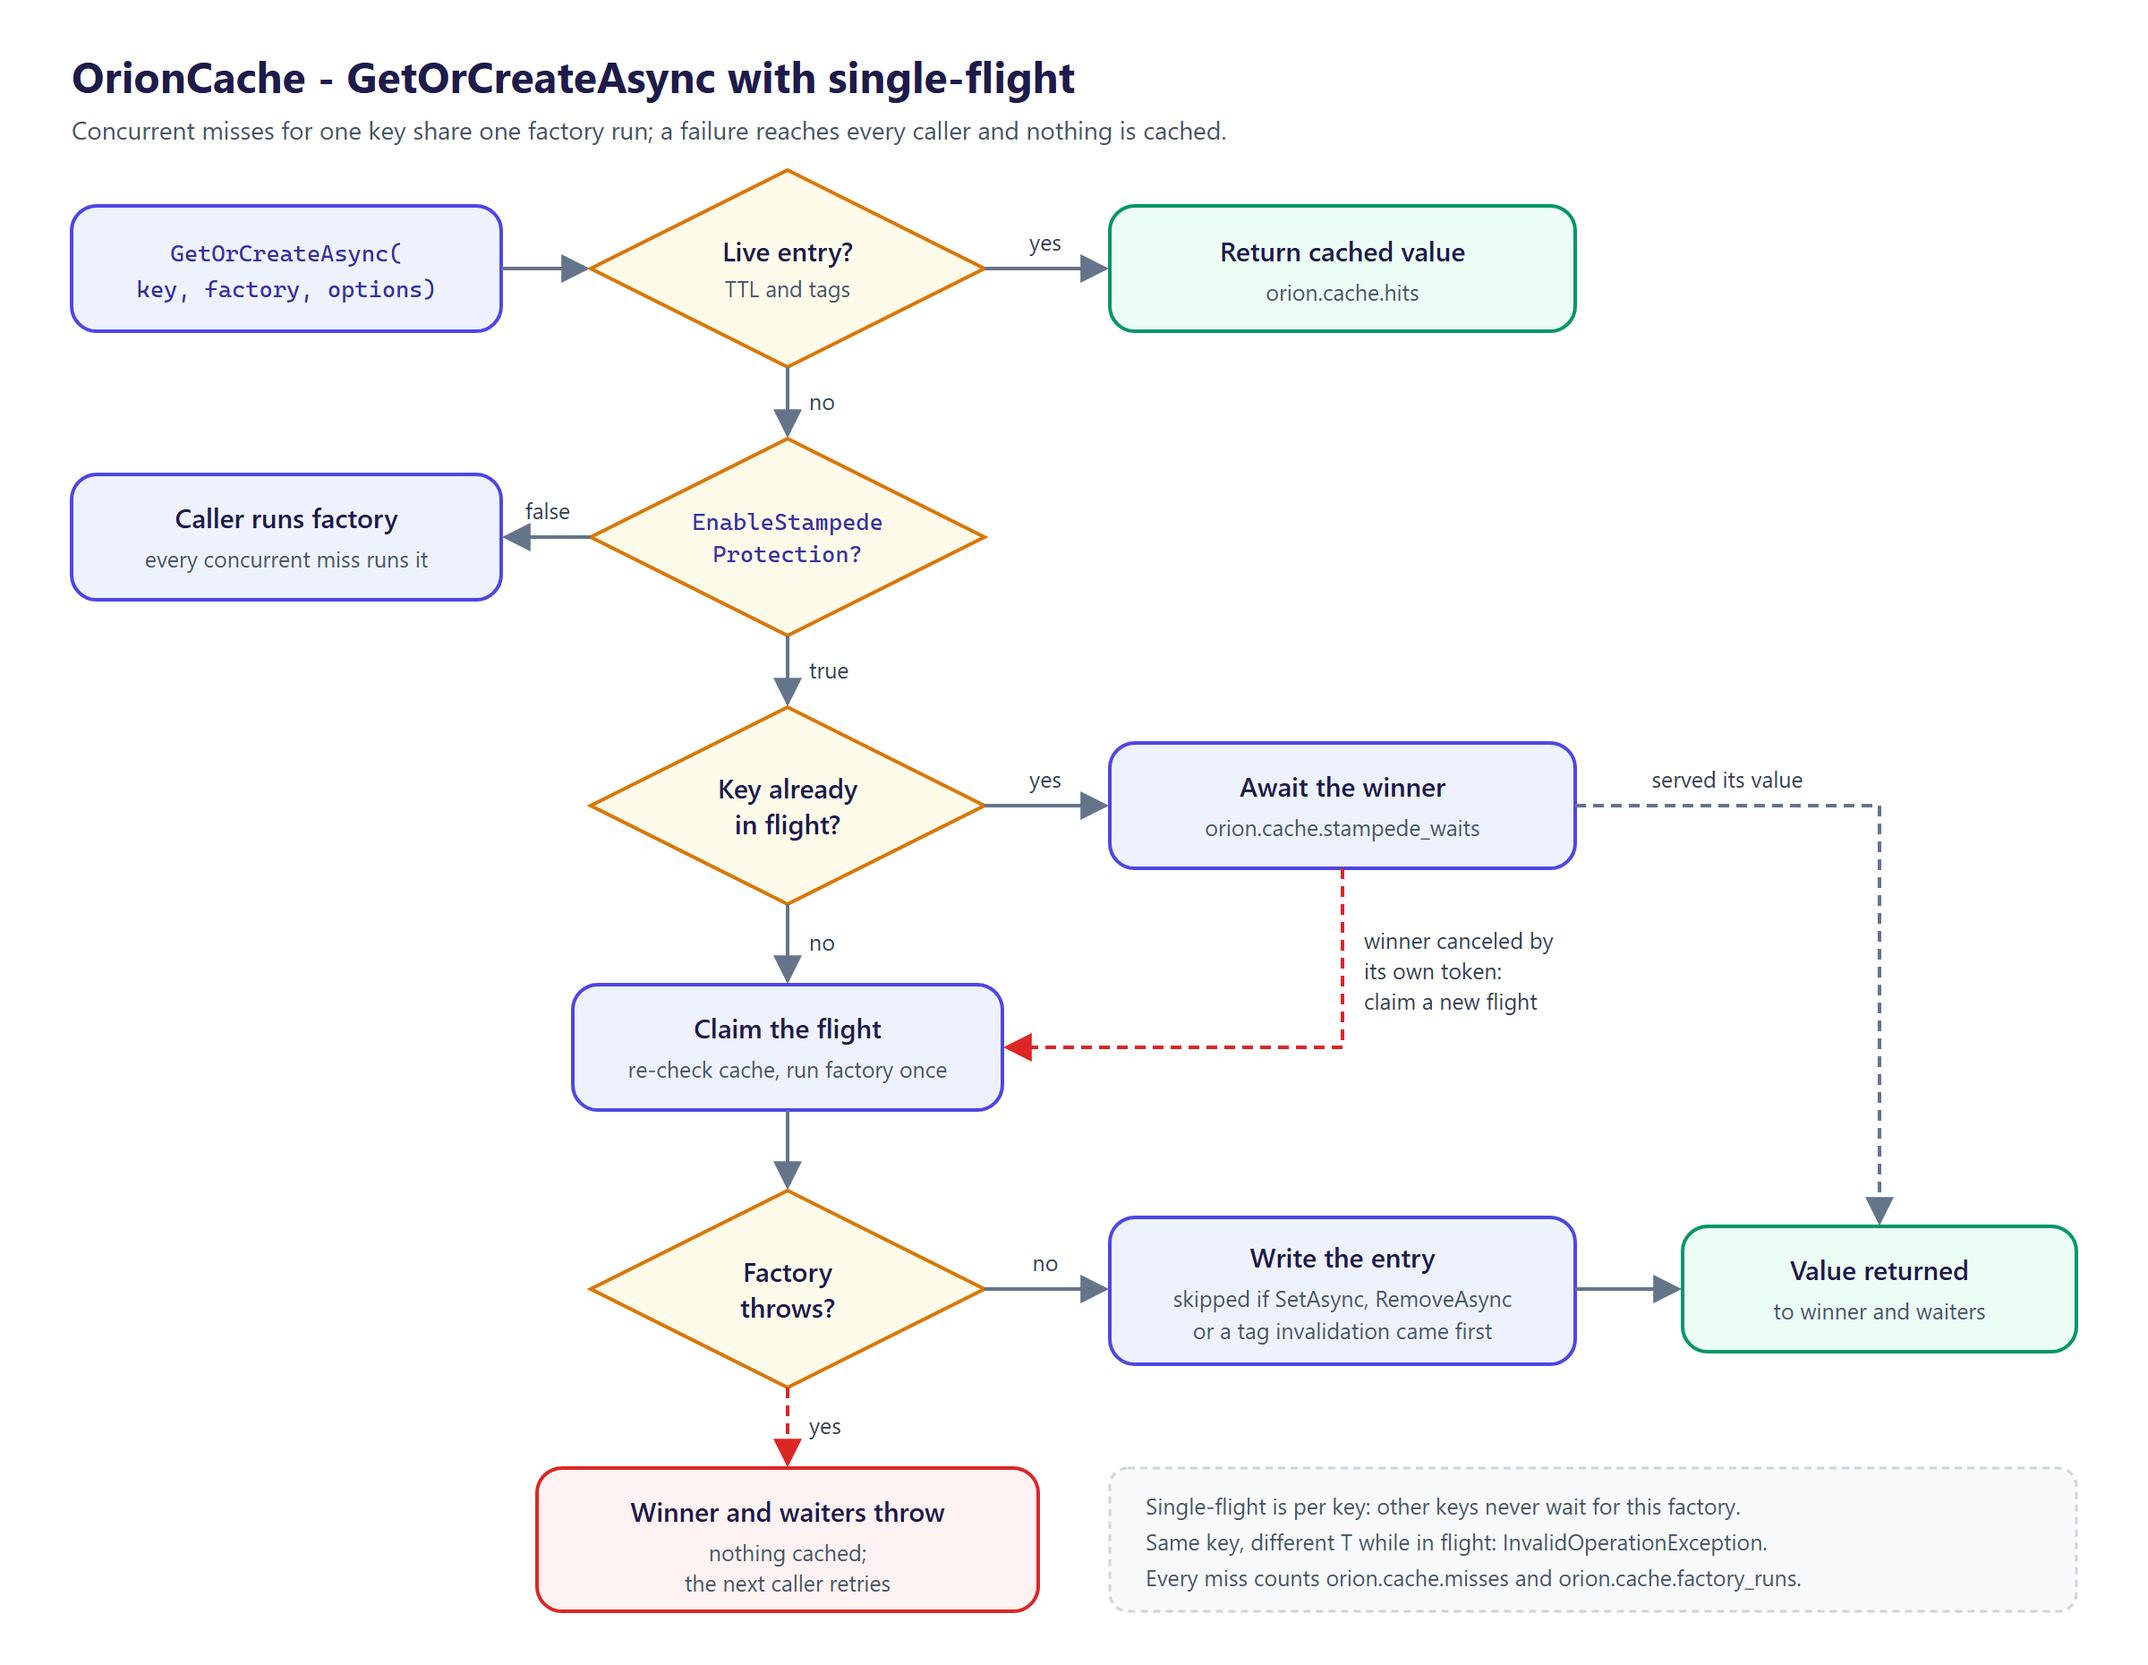
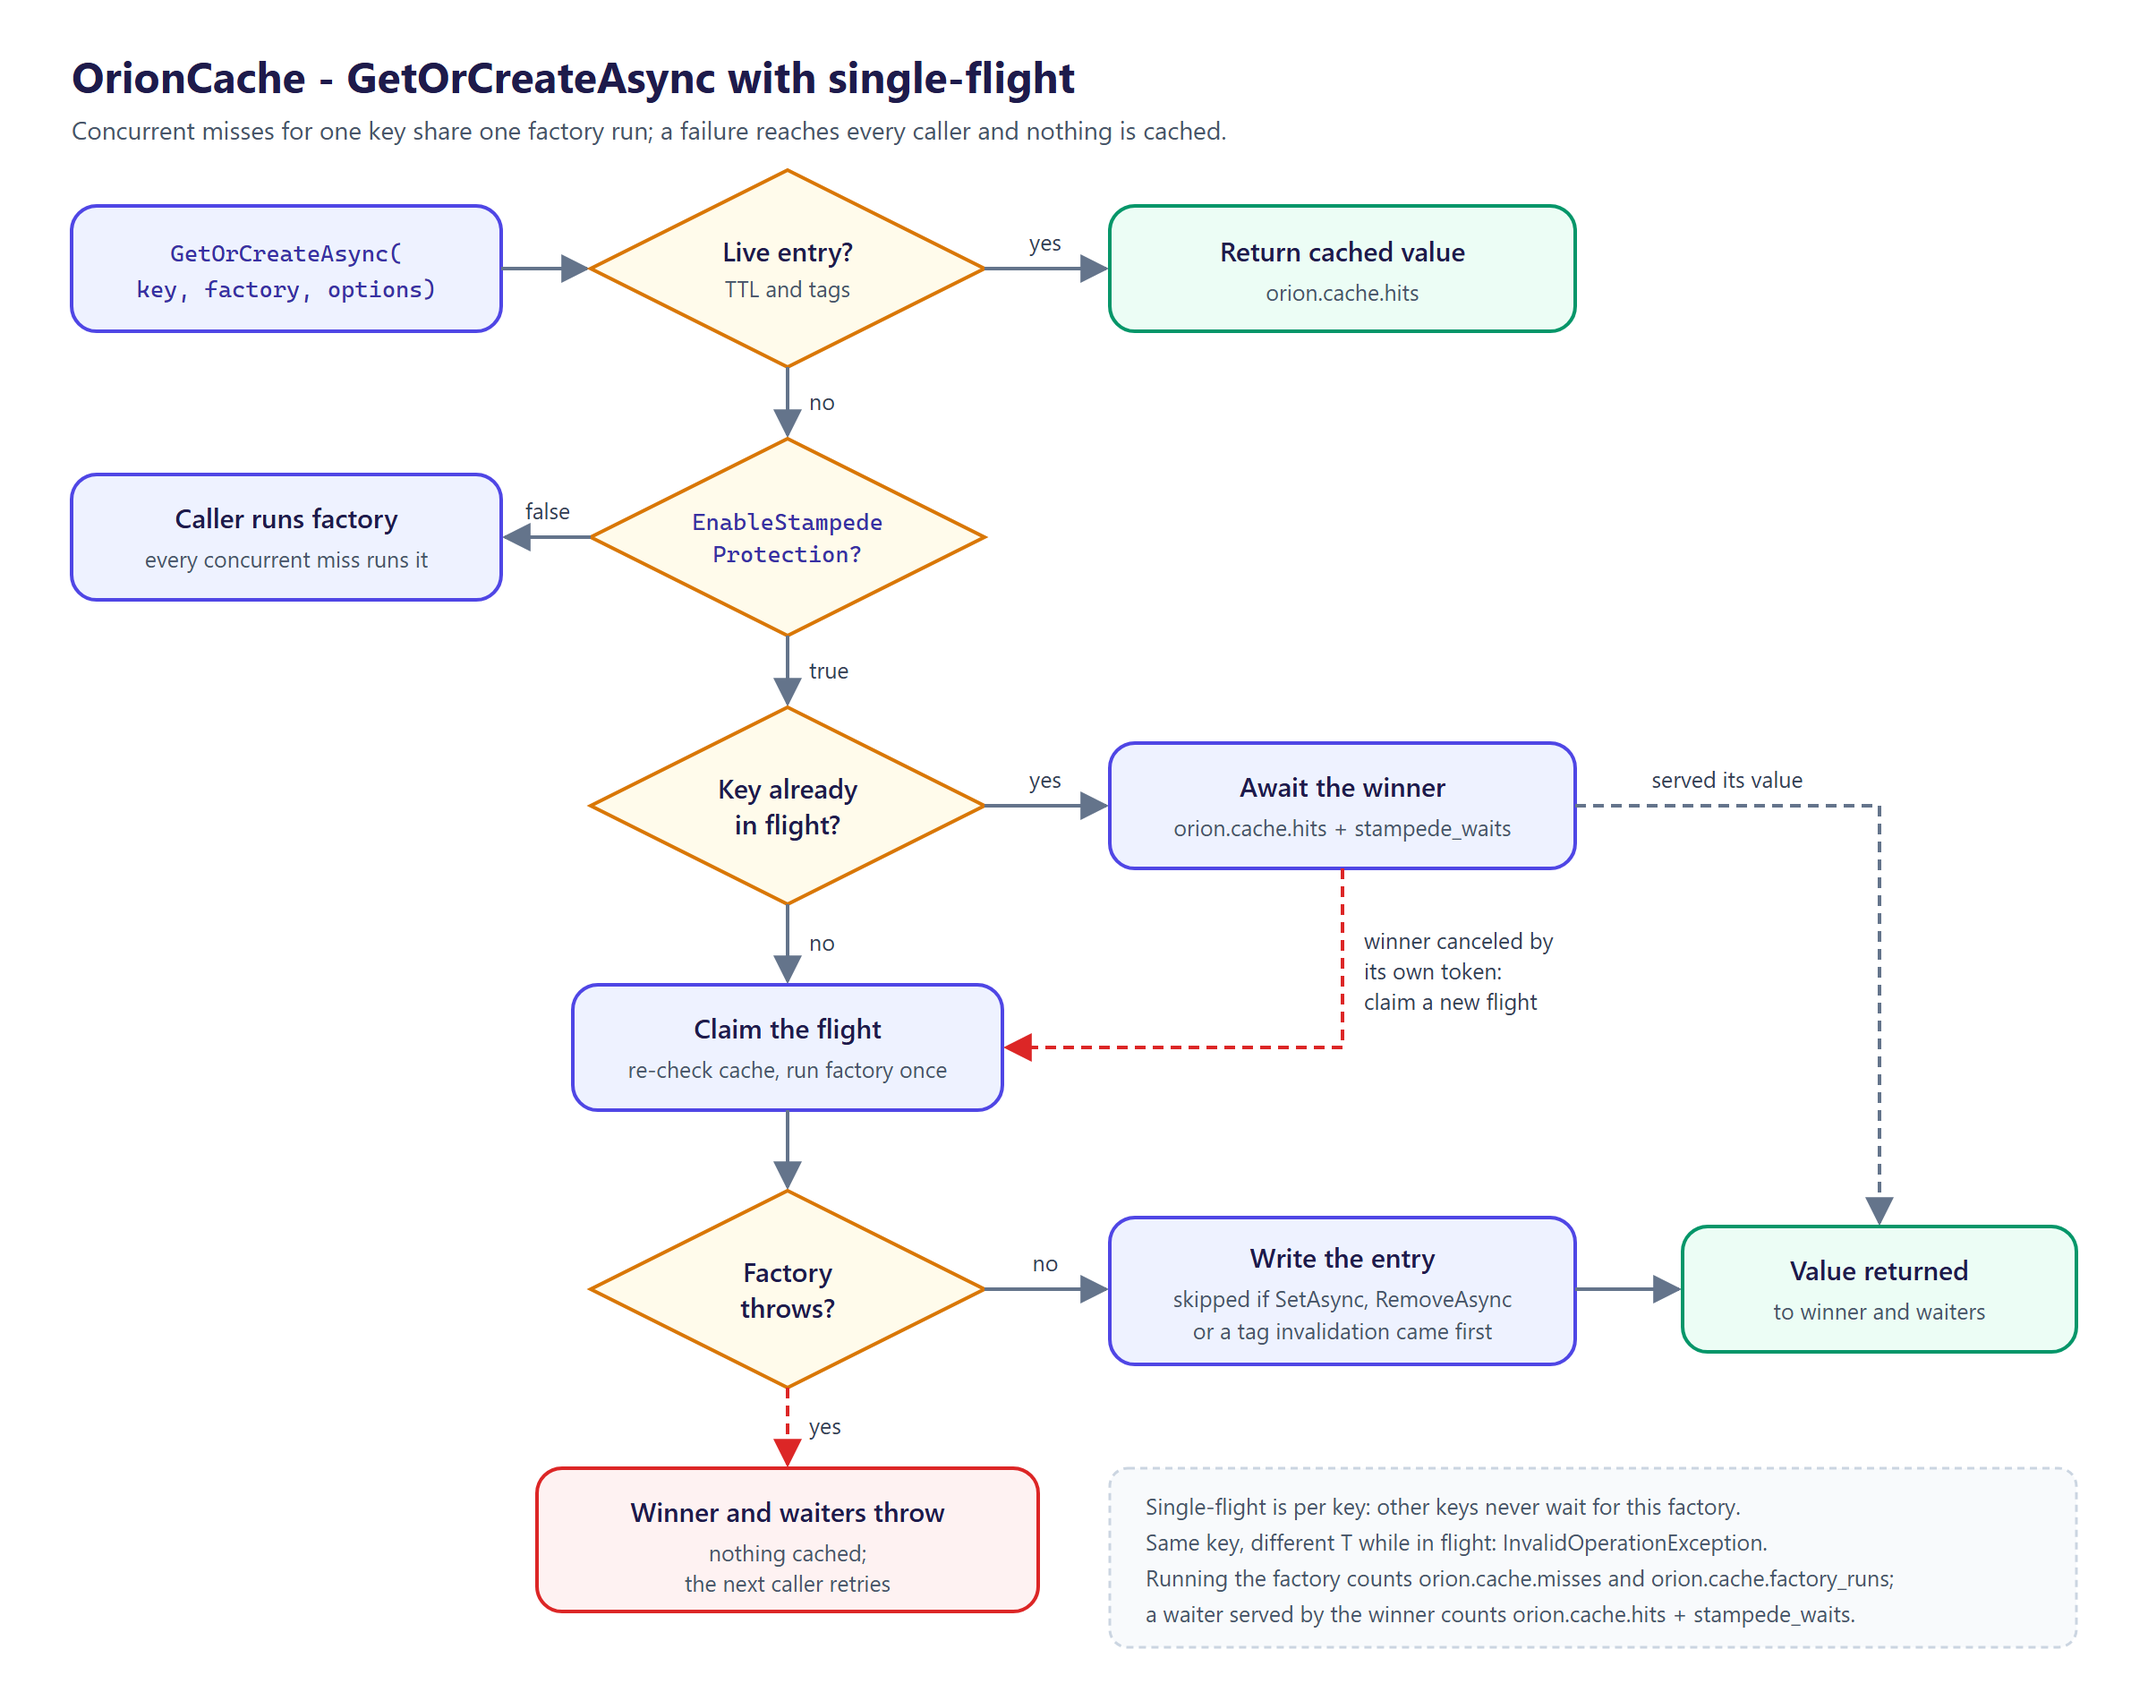
docs: address review feedback on the documentation refresh (#11)
Fixes the statements a review of the documentation refresh found wrong or
incomplete; each change was checked against src/.

diff --git a/README.md b/README.md
@@ -24,7 +24,7 @@ Every service re-implements the same three-line cache-aside and gets it wrong th
 - **Deterministic expiration on `OrionClock`** — absolute and sliding TTLs are measured on the family clock, so a `FakeOrionClock` expires entries with no real waiting and no flakiness. A stale value is never returned.
 - **Tag invalidation** — group related in-memory entries and expire them together, including entries whose factory was in flight during the invalidation.
 - **`Option<T>` reads** — `TryGetAsync` returns an `Option<T>` from [OrionResult](https://github.com/tunahanaliozturk/OrionResult), not the `(bool, out T)` dance.
-- **OpenTelemetry by default** — a `Moongazing.OrionCache` meter with `orion.cache.hits`, `orion.cache.misses`, `orion.cache.factory_runs`, and `orion.cache.stampede_waits`.
+- **OpenTelemetry by default** — a `Moongazing.OrionCache` meter with `orion.cache.hits`, `orion.cache.misses`, `orion.cache.factory_runs`, and `orion.cache.stampede_waits`. The caller that runs the factory records a miss and a factory run; a single-flight waiter served the winner's value records a hit and a stampede wait.
 - **AOT- and trim-clean**, verified by a native-binary smoke test in CI. Multi-targets `net8.0`, `net9.0`, `net10.0`.
 
 ## Install

diff --git a/src/Moongazing.OrionCache/docs/README.md b/src/Moongazing.OrionCache/docs/README.md
@@ -64,7 +64,7 @@ Invalidation is local to one cache instance. A value from a factory that was in 
 
 ## Telemetry and AOT
 
-- Meter `Moongazing.OrionCache` with counters `orion.cache.hits`, `orion.cache.misses`, `orion.cache.factory_runs` and `orion.cache.stampede_waits`.
+- Meter `Moongazing.OrionCache` with counters `orion.cache.hits`, `orion.cache.misses`, `orion.cache.factory_runs` and `orion.cache.stampede_waits`. The caller that runs the factory records a miss and a factory run; a single-flight waiter served the winner's value records a hit and a stampede wait.
 - AOT- and trim-compatible (`IsAotCompatible`); CI publishes a NativeAOT smoke test.
 
 ## Related packages
